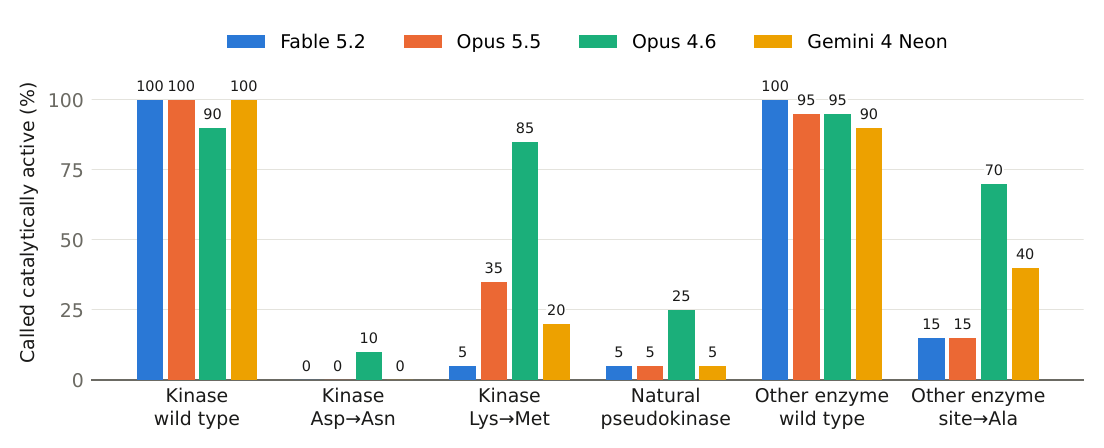
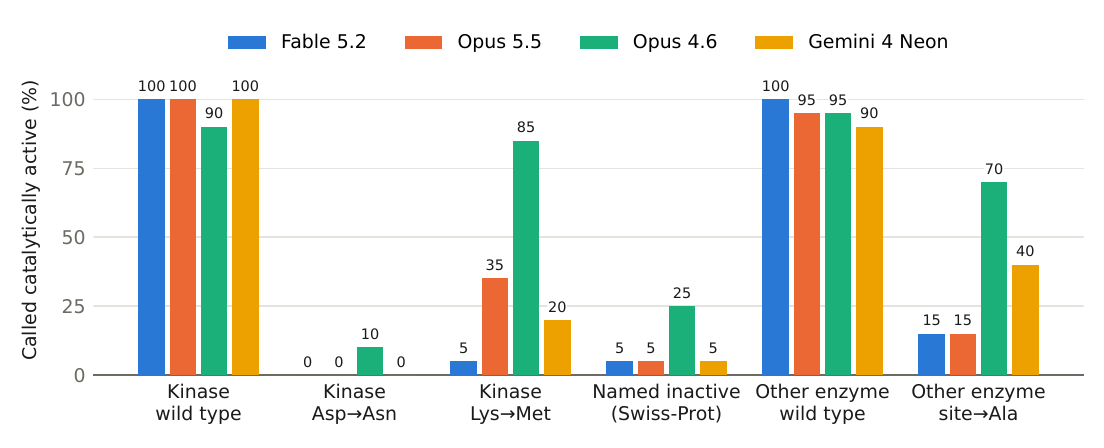
Present the 20 'inactive' kinases as a Swiss-Prot name set; narrow the kin-32 claim (#201)
The set was chosen by the word 'inactive' in the name, so calls on it are agreement
with a database name. The text, the Methods, the Limitations and the Figure 1 label
now say so, and name RLK902, whose entry notes proposed autophosphorylation.
kin-32: intact motifs do not guarantee detectable activity; it is no longer called
a pseudoenzyme. Adds the read-only script that checks the review's factual claims.

diff --git a/manuscript.tex b/manuscript.tex
@@ -130,8 +130,8 @@ obscure domain-of-unknown-function families. Each protein was also given in shuf
 
 \textbf{Catalytic residues and pseudoenzymes (\tpseudo).} Say whether an enzyme is catalytically active and which catalytic
 residues are present or substituted. The sequences were 20 active kinases, the same kinases with the
-catalytic aspartate or the ATP-binding lysine substituted, 20 natural pseudokinases, and 20 other enzymes
-with and without an active-site residue changed to alanine. In a decoy control, run for the Claude models,
+catalytic aspartate or the ATP-binding lysine substituted, 20 kinase-fold proteins that Swiss-Prot names
+inactive, and 20 other enzymes with and without an active-site residue changed to alanine. In a decoy control, run for the Claude models,
 the same type of substitution was placed at a position with no functional annotation.
 
 \textbf{Structure and function (\tstrfn).} Predict secondary structure, residue contacts and function for
@@ -291,17 +291,27 @@ Opus 4.6 (low) & 34/38 & 45/58 & 50/58 \\
 \end{tabular}
 \end{table}
 
-Fable~5.2, Opus~5.5 and Neon called 18, 18 and 19 of the 20 natural pseudokinases inactive. In 17, 17 and
+Of the 20 kinase-fold proteins that Swiss-Prot names inactive, Fable~5.2, Opus~5.5 and Neon called 18, 18
+and 19 inactive. In 17, 17 and
 19 of those answers, though, the protein name the model gave already said ``inactive'' or
 ``pseudokinase'', so this set mostly measures recall of the database entry. Opus~4.6 at high effort
 called 12 of 20 inactive.
+
+These counts are agreement with a database name, not accuracy. The set was chosen by the word
+``inactive'' in the name, and we did not check the 20 names against activity experiments. For one of
+them, \textit{Arabidopsis} RLK902 (Q9LVI6), the entry itself notes that autophosphorylation is proposed
+although the kinase domain is predicted to be catalytically inactive \citep{uniprot}. Fable~5.2, Opus~5.5,
+Neon and Opus~4.6 at high effort all called RLK902 inactive, so agreement with a name can itself be an
+error.
 
 All three of the stronger models called \textit{C.~elegans} kin-32 (Q95YD4) active, although Swiss-Prot
 names it an inactive tyrosine kinase. They cited an intact glycine loop, VAVK lysine, HRD and DFG motifs,
 and all of these are present in the sequence. The Swiss-Prot name rests on an assay, not on the sequence:
 the entry records that the protein ``has apparently no tyrosine kinase activity in vitro when expressed in
-mammalian cells''. kin-32 is thus a pseudoenzyme that keeps its catalytic motifs, and no reading of
-catalytic residues can detect that class.
+mammalian cells''. That is a negative result in one assay system, and it does not show that kin-32 is
+inactive in the worm. What the case does show is that intact canonical motifs do not guarantee
+detectable activity, and a reading of catalytic residues cannot tell such a protein from an active
+kinase.
 
 Two failure modes recurred. In the first, the model moved the catalytic role to a neighbouring residue of
 the same type. When we changed Glu318 of a glucuronosyltransferase (Q9VLA1) to alanine, Fable~5.2 and
@@ -345,7 +355,9 @@ substituted position in 17, 15 and 11 of 18. Figure~\ref{fig:pseudo} keeps all 2
 \centering
 \includegraphics[width=\linewidth]{figures/fig1_pseudoenzyme.pdf}
 \caption{Share of sequences called catalytically active, 20 sequences per bar. Mutants carry one
-substitution introduced for this study. Claude models at high effort; Gemini~4 Neon at low effort.}
+substitution introduced for this study. ``Named inactive'' marks the 20 kinase-fold proteins whose
+Swiss-Prot name says inactive; the names were not checked against activity experiments. Claude models at
+high effort; Gemini~4 Neon at low effort.}
 \label{fig:pseudo}
 \end{figure}
 
@@ -503,8 +515,8 @@ result is consistent with theirs but does not replicate it.
 For annotation review, the practical use is narrow. Before a catalytic term is accepted, a sequence-only
 read can flag a protein that has lost a canonical catalytic residue, and it can question an implausible
 name. It cannot show that the protein is inactive, since catalytic residues can be displaced
-\citep{goldberg2023pseudoenzymes}. Nor can it find pseudoenzymes that keep every catalytic residue, such
-as kin-32. A flag should prompt a curator to check the catalytic term. It says nothing against the
+\citep{goldberg2023pseudoenzymes}. Nor can it find proteins that keep every canonical catalytic residue
+and still lack detectable activity, of which kin-32 may be one. A flag should prompt a curator to check the catalytic term. It says nothing against the
 protein having a function, since dead enzymes commonly act as regulators \citep{adrain2020dead}.
 
 The read also cannot serve as evidence. Its output has no provenance, its errors are stated as
@@ -553,7 +565,9 @@ The controls of the \tpseudo{} test have gaps. No decoy control was run for Neon
 were asked at low effort only. The decoy positions were chosen by a rule written with the help of two of
 the tested models, and they avoid conserved positions. The adjudication of the two reference sites rests
 on alignment and predicted structures. Neither disputed position, nor the activity of the mutants used
-here, has been tested directly by experiment. Swiss-Prot proteins are well known, so the wild-type
+here, has been tested directly by experiment. The 20 proteins that Swiss-Prot names inactive were
+selected by that name alone and were not curated independently; one of them, RLK902, carries a note of
+proposed autophosphorylation in the same entry. Swiss-Prot proteins are well known, so the wild-type
 results in the \tpseudo{} test may reflect recall. The mutants are new sequences and cannot. Dead mutants made by one
 substitution are also not natural pseudoenzymes. Those usually differ from active relatives at many
 positions and can be inactive for reasons that leave the catalytic residues intact. We examined no
@@ -665,7 +679,11 @@ differs from active relatives at many positions. UniProt curates pseudoenzymes i
 reviewed entries carried ``inactive'' in a protein name (492 in the recommended name), 107 of them in the
 protein kinase superfamily. From Swiss-Prot, excluding human, mouse and rat, we took three sets of 20:
 active protein kinases with a curated proton-acceptor aspartate and ATP-binding lysine; kinase-fold
-proteins whose name contains ``inactive''; and non-kinase enzymes with a curated active site. Each kinase
+proteins whose name contains ``inactive''; and non-kinase enzymes with a curated active site. For the
+second set the name was the only criterion. In most of these entries, UniProt's own comment says that
+the kinase domain is ``predicted to be catalytically inactive'', so the name is often a prediction from
+the sequence. We did not check the 20 names against published activity experiments. Calls on this set
+are therefore scored as agreement with the Swiss-Prot name. Each kinase
 was also presented with the aspartate changed to asparagine and, separately, with the lysine changed to
 methionine. Each other enzyme was presented with its first active-site residue changed to alanine. A
 single prompt, used for every sequence, asked for the catalytic residues present, any that were

diff --git a/scripts/adhoc/check_review_claims_issues_201_to_207.py b/scripts/adhoc/check_review_claims_issues_201_to_207.py
@@ -1,0 +1,91 @@
+"""Check, against the committed files, the factual claims in the external review filed as issues #201 to #207.
+
+Purpose: before the manuscript text is narrowed (branch text/issues-201-208), confirm what the review says the
+         stored answers contain. Reads only; calls no model and writes no file.
+Inputs:  experiments/{pseudo,features,structure}/results/*.jsonl, experiments/decoy_control/results/*.jsonl,
+         gemini_experiment/results_vertex/*/*.jsonl, the truth.json files.
+Output:  a printed report with one section per claim.
+Serves:  issues #201 (calls on RLK902, RKL1, kin-32), #203/#207 (which rows were written by which route),
+         #204 (transmembrane helices predicted for shuffled sequences), #205 (the 9YP0 function answers),
+         #206 (contact precision when short-range and unresolved submissions count as misses).
+Date:    2026-11-20.
+Usage:   uv run python scripts/adhoc/check_review_claims_issues_201_to_207.py
+"""
+import json, math, pathlib, statistics, sys
+ROOT = pathlib.Path(__file__).resolve().parents[2]
+sys.path.insert(0, str(ROOT / "experiments"))
+from common import KEYS, answer   # the rule every scorer uses to read a reply
+
+def rows(path): return [json.loads(l) for l in open(path)]
+def ans(r, test): return answer(r.get("text") or "", KEYS[test])
+CLAUDE = ["claude-fable-5-2", "claude-opus-5-5", "claude-opus-4-6-high", "claude-opus-4-6"]
+NEON = {"pseudo": "gemini-4-neon-low", "features": "gemini-4-neon-low", "structure": "gemini-4-neon-medium"}
+def files(test):
+    out = [(m, ROOT / "experiments" / test / "results" / f"{m}.jsonl") for m in CLAUDE]
+    return out + [(NEON[test], ROOT / "gemini_experiment" / "results_vertex" / test / f"{NEON[test]}.jsonl")]
+
+print("== #201: calls on three proteins Swiss-Prot names inactive (wild type)")
+for acc, label in (("Q9LVI6", "RLK902"), ("Q9LP77", "RKL1 / At1g48480"), ("Q95YD4", "kin-32")):
+    print(f"  {acc} {label}")
+    for m, f in files("pseudo"):
+        for r in rows(f):
+            if r.get("accession") == acc and r.get("variant", "wt") == "wt":
+                a = ans(r, "pseudo") or {}
+                print(f"    {m:22s} active={a.get('catalytically_active')!r:12} name={str(a.get('protein_name'))[:90]!r}")
+
+PS = [d for d in json.loads((ROOT / "experiments/pseudo/truth.json").read_text()) if d["group"] == "pseudo"]
+pred = [d["accession"] for d in PS if any("predicted to be catalytically inactive" in c for c in d.get("caution") or [])]
+print(f"  stored UniProt comments (truth.json `caution`): {len(pred)} of {len(PS)} say the kinase domain is 'predicted to be catalytically inactive'")
+for d in PS:
+    for c in d.get("caution") or []:
+        if "utophosphorylation" in c: print(f"    {d['accession']}: {c}")
+
+print("\n== #203/#207: rows per results file, by route (a row with extra_flags or prompt_sha256 was written by call(), the revised route)")
+for d in ("next_residue", "features", "pseudo", "structure", "decoy_control"):
+    for f in sorted((ROOT / "experiments" / d / "results").rglob("*.jsonl")):
+        R = rows(f); rev = [r for r in R if r.get("extra_flags") or r.get("prompt_sha256")]
+        web = sum(1 for r in rev if any((r.get("usage") or {}).get("server_tool_use", {}).get(k) for k in ("web_search_requests", "web_fetch_requests")))
+        hasweb = sum(1 for r in rev if isinstance((r.get("usage") or {}).get("server_tool_use"), dict))
+        ver = sorted({str(r.get("cli_version")) for r in rev}); tok = sum(1 for r in rev if r.get("input_tokens") is not None)
+        print(f"  {str(f.relative_to(ROOT)):62s} rows {len(R):4d}  original route {len(R)-len(rev):4d}  revised route {len(rev):4d}"
+              f"  (of those: record input tokens {tok}, record web-request counts {hasweb}, show a web request {web}; tool version {ver if rev else '-'})")
+
+print("\n== #204: shuffled sequences given at least one transmembrane helix (FEAT test, 60 shuffled per model)")
+for m, f in files("features"):
+    R = [r for r in rows(f) if r.get("condition") == "shuffled"]
+    seen = {}
+    for r in R:                       # the scorers take the last usable row per question; here: last row with an answer
+        a = ans(r, "features")
+        if a: seen[r["accession"]] = a
+    tm = sum(1 for a in seen.values() if a.get("transmembrane_helices"))
+    pf = sum(1 for a in seen.values() if a.get("pfam_domains"))
+    sp = sum(1 for a in seen.values() if a.get("signal_peptide") is True)
+    print(f"  {m:22s} answered {len(seen):2d}: any TM helix {tm:2d}, any Pfam domain {pf:2d}, signal peptide called {sp:2d}")
+
+print("\n== #205: function answers for the designed cysteine protease HC34 (9YP0)")
+for m, f in files("structure"):
+    for r in rows(f):
+        if r.get("pdb") == "9YP0":
+            a = ans(r, "structure") or {}
+            print(f"  {m}\n    protein_name: {a.get('protein_name')!r}\n    function:     {a.get('function')!r}\n    recognised:   {a.get('recognised')!r}")
+
+print("\n== #206: novel stratum (ASPRV1 once), contact precision by two definitions")
+T = {t["pdb"]: t for t in json.loads((ROOT / "experiments/structure/truth.json").read_text())}
+REPEATS = {"27JP", "27JO", "27IQ"}
+def pair_ok(p): return isinstance(p, list) and len(p) == 2 and all(isinstance(v, int) for v in p)
+for m, f in files("structure"):
+    reported, strict, nsub, nqual = [], [], [], []
+    for r in rows(f):
+        t = T.get(r.get("pdb"))
+        if not t or t["stratum"] != "novel" or r["pdb"] in REPEATS: continue
+        a = ans(r, "structure")
+        if not a: continue
+        ca = {int(k): v for k, v in t["ca"].items()}
+        sub = [p for p in (a.get("contacts") or []) if pair_ok(p)]
+        qual = [p for p in sub if abs(p[0] - p[1]) >= 24 and p[0] in ca and p[1] in ca]
+        hits = sum(math.dist(ca[i], ca[j]) < 8 for i, j in qual)
+        nsub.append(len(sub)); nqual.append(len(qual))
+        if qual: reported.append(hits / len(qual))
+        if sub: strict.append(hits / len(sub))
+    print(f"  {m:22s} n={len(nsub):2d}: as reported (qualifying pairs only) {100*statistics.mean(reported):.1f}%;"
+          f" over all submitted pairs {100*statistics.mean(strict):.1f}%; pairs submitted {sum(nsub)}, qualifying {sum(nqual)}")

diff --git a/figures/make_figures.py b/figures/make_figures.py
@@ -42,7 +42,7 @@ def bars(ax, groups, values, ymax, fmt="{:.0f}"):
 # Figure 1: share of sequences called catalytically active, by sequence class
 T = {t["accession"]: t for t in json.loads((ROOT / "pseudo/truth.json").read_text())}
 classes = [("kinase", "wt", "Kinase\nwild type"), ("kinase", "asp_to_asn", "Kinase\nAsp→Asn"), ("kinase", "lys_to_met", "Kinase\nLys→Met"),
-           ("pseudo", "wt", "Natural\npseudokinase"), ("enzyme", "wt", "Other enzyme\nwild type"), ("enzyme", "site_to_ala", "Other enzyme\nsite→Ala")]
+           ("pseudo", "wt", "Named inactive\n(Swiss-Prot)"), ("enzyme", "wt", "Other enzyme\nwild type"), ("enzyme", "site_to_ala", "Other enzyme\nsite→Ala")]
 vals = {}
 for mid, _, _, f3, _ in MODELS:
     c = collections.Counter(); n = collections.Counter()
